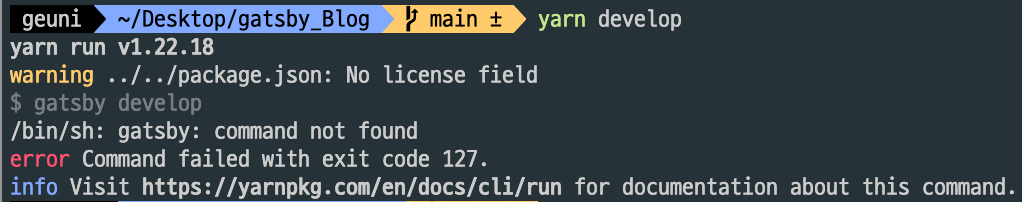
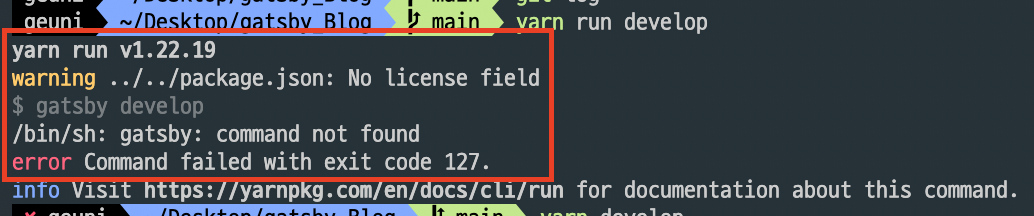
Modify: 내용추가, 캡처 사진 변경

Changed region(s): [[0.0, 0.0, 1.0, 1.0]]

diff --git a/[Common] Command failed with exit code 127.md b/[Common] Command failed with exit code 127.md
@@ -8,6 +8,10 @@
 
 해결방법은 `npm update` 해주고 `yarn develop` 실행하니 정상 동작함.
 
+<br>
+
+또는, node_modules와 package.json-lock 삭제 후 `yarn install`
+
 ---
 
 ### 참고자료
